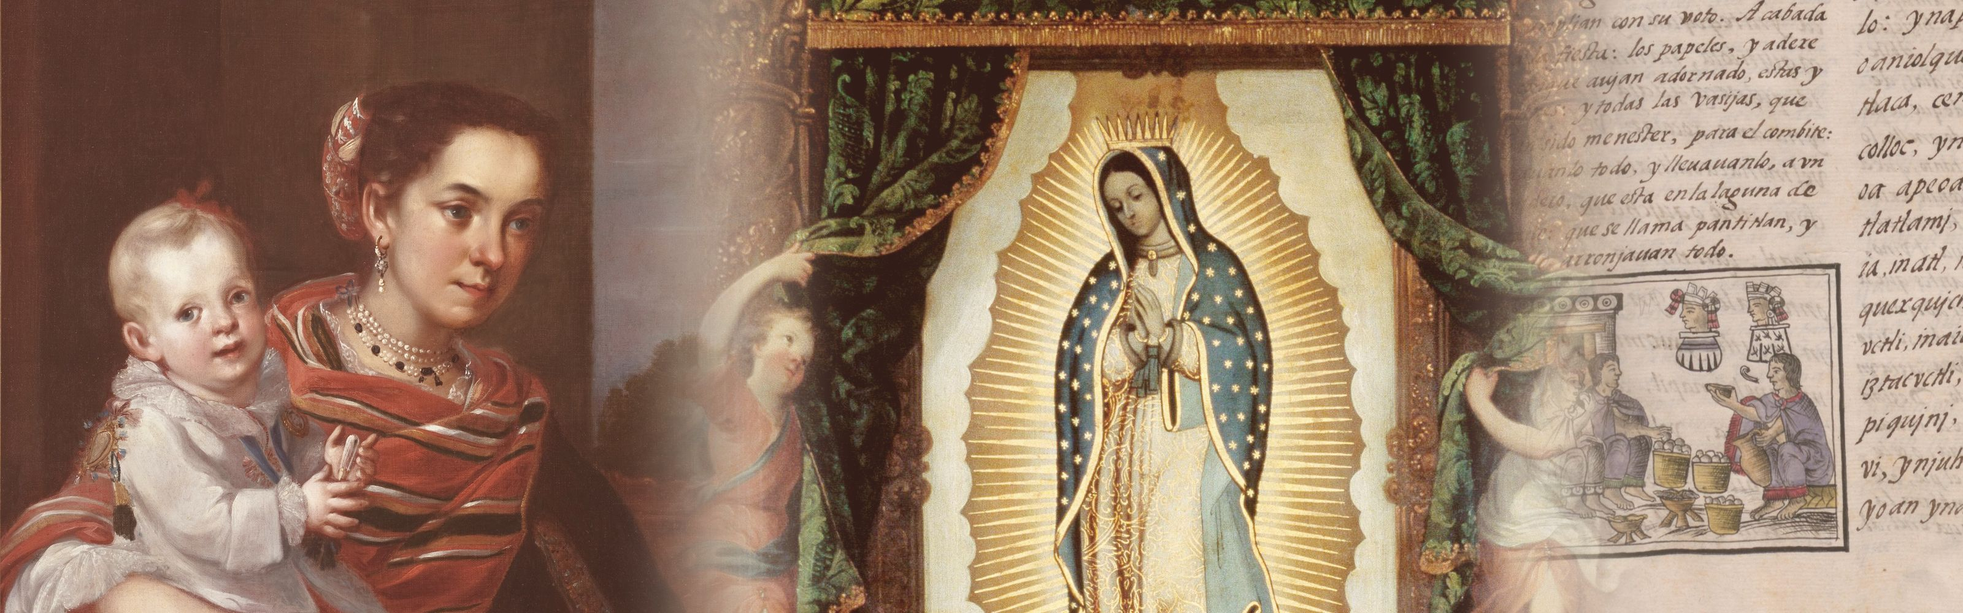
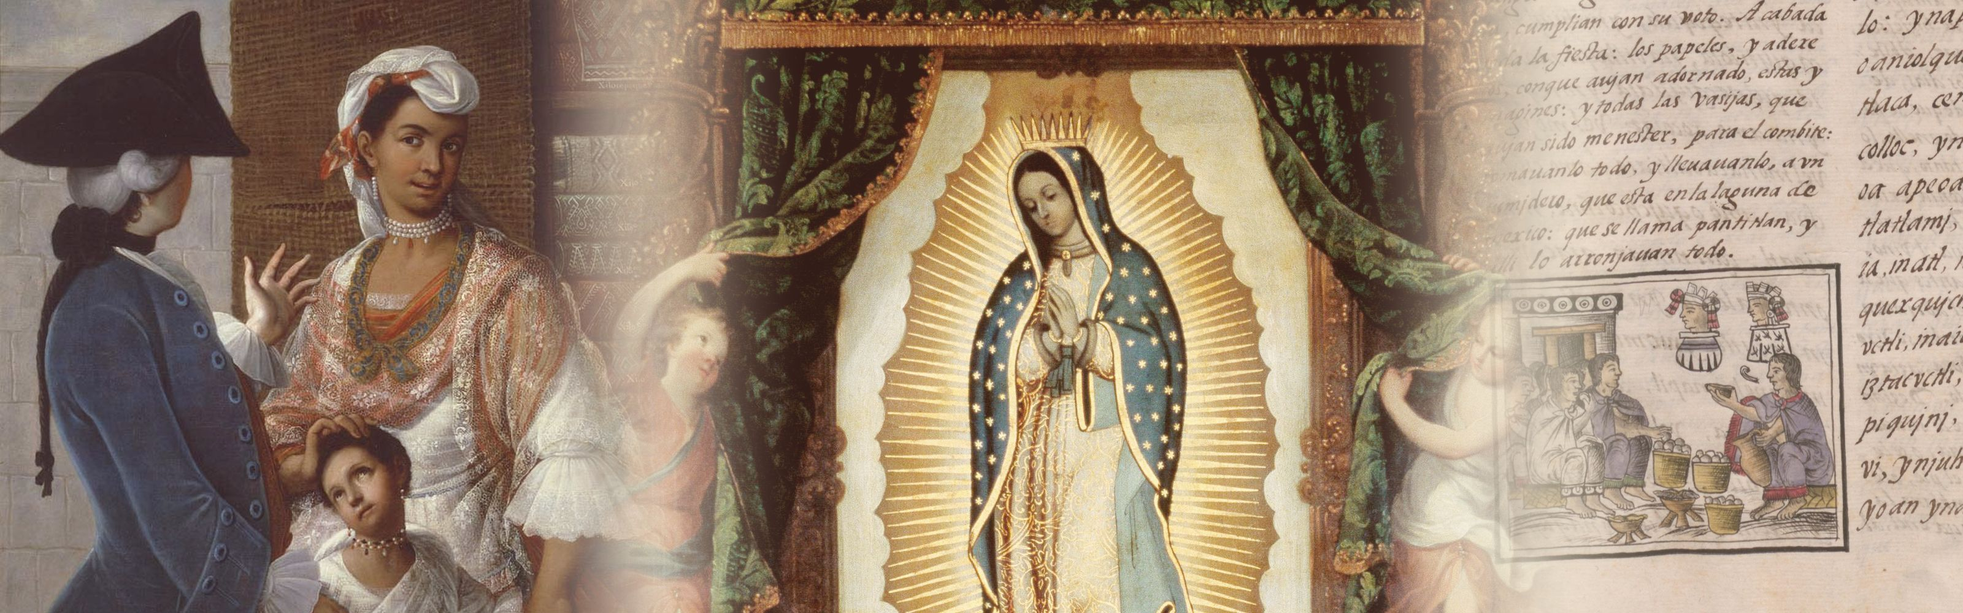
Home: Beltrán's round 3 fixes (#74)
* home: round 3 fixes (title clip, channels band, serif video titles, essay covers)

- Title page: the clip window of each line reaches past the glyphs (the
  italic f, the p's descender) and negative margins give the space back.
- Where to find us: the channel grid leaves About for a light band of its
  own right under the pillars.
- Watch: every video title in the display serif.
- Read: each essay with its Substack cover, saved to public/art/essays.

* pillars: Cabrera's De español e india, mestiza for the Mestizaje third

Beltrán: Morlete's casta painting (a criolla and an albino child) shows no
mestizaje. Cabrera's no. 1 of his 1763 series (a Spanish father, an Indian
mother and their mestiza daughter) replaces it in the fresco and the panel;
the Guadalupe layer starts a little earlier so the seam melts without a pale
gap. Credits, SOURCES and AGENTS updated; Arellano's Mujer chichimeca is
logged as wanted, pending the Museo de América's permission.

---------

diff --git a/site/app/globals.css b/site/app/globals.css
@@ -228,10 +228,19 @@ section { padding: clamp(52px, 7vw, 104px) var(--edge); position: relative; }
   margin-bottom: clamp(18px, 3.4vh, 40px);
 }
 .title__name { margin: 0; font-weight: 600; color: var(--burgundy); line-height: 0.86; letter-spacing: -0.025em; font-size: clamp(54px, 12.2vw, 236px); max-width: none; }
-.title__line { display: inline-block; overflow: clip; padding: 0.04em 0.03em 0.1em; margin: -0.04em 0 -0.1em; vertical-align: bottom; }
+/* each line is a window the words rise through (overflow: clip). The window
+   reaches well past the line box on every side (the italic f leans out at the
+   top right, the p of Hispano hangs below), and negative margins of the same
+   size give the space back (less 0.03em a side, the air between the words),
+   so the clip never cuts a glyph and the lines sit where they always did. */
+.title__line {
+  --pt: 0.26em; --px: 0.16em; --pb: 0.36em;
+  display: inline-block; overflow: clip; vertical-align: bottom;
+  padding: var(--pt) var(--px) var(--pb); margin: calc(-1 * var(--pt)) calc(0.03em - var(--px)) calc(-1 * var(--pb));
+}
 .title__line > span { display: inline-block; }
 .title__line--small {
-  display: block; width: fit-content; margin-inline: auto; margin-bottom: 0.06em;
+  display: block; width: fit-content; margin-inline: auto; margin-bottom: calc(0.16em - var(--pb));
   font-size: 0.24em; font-weight: 500; font-style: italic; letter-spacing: 0.01em; color: var(--ink);
 }
 .title__say { margin: clamp(18px, 3.4vh, 38px) auto 0; font-family: var(--display); font-size: clamp(18px, 1.75vw, 28px); line-height: 1.3; max-width: 36ch; }
@@ -257,7 +266,8 @@ section { padding: clamp(52px, 7vw, 104px) var(--edge); position: relative; }
   .title__run { animation: run 38s linear infinite; }
 }
 @keyframes wings { from { clip-path: inset(0 47% 0 47%); } to { clip-path: inset(0 0 0 0); } }
-@keyframes line-up { from { transform: translateY(105%); } to { transform: none; } }
+/* from below the window's bottom edge, which sits var(--pb) under the line */
+@keyframes line-up { from { transform: translateY(calc(100% + 0.7em)); } to { transform: none; } }
 @keyframes run { to { transform: translateX(-100%); } }
 
 /* ==========================================================================
@@ -738,7 +748,7 @@ main .eyebrow { color: var(--leather); }
 .vid:hover .vid__thumb, .short:hover .short__thumb { box-shadow: var(--lift-2); }
 .watch__grid { list-style: none; margin: 0; padding: 0; display: grid; gap: clamp(16px, 1.8vw, 26px); grid-template-columns: repeat(3, minmax(0, 1fr)); }
 .watch__grid .is-lead { grid-column: span 2; grid-row: span 2; }
-.watch__grid .is-lead h4 { font-family: var(--display); font-size: clamp(21px, 2vw, 30px); font-weight: 600; line-height: 1.15; }
+.watch__grid .is-lead h4 { font-size: clamp(21px, 2vw, 30px); line-height: 1.15; }
 .vid, .short { text-decoration: none; display: flex; flex-direction: column; gap: 10px; }
 .vid__thumb, .short__thumb { position: relative; overflow: hidden; background: var(--paper-deep); border: 1px solid var(--grid); }
 .vid__thumb { aspect-ratio: 16 / 9; }
@@ -753,8 +763,10 @@ main .eyebrow { color: var(--leather); }
 .vid__play::after { content: ""; position: absolute; left: 17px; top: 14px; border-style: solid; border-width: 8px 0 8px 13px; border-color: transparent transparent transparent var(--paper); }
 .vid:hover .vid__play { background: var(--burgundy-dark); }
 .vid__views { position: absolute; right: 7px; bottom: 7px; padding: 2px 6px; background: color-mix(in srgb, var(--ink) 86%, transparent); color: var(--paper); font-family: var(--mono); font-size: 10px; }
-.vid h4, .short h4 { font-family: var(--body); font-size: 15px; font-weight: 500; line-height: 1.35; }
-.short h4 { font-size: 14px; }
+/* every video title in the display serif, as every other title on the page
+   (round 3: the lead was serif and the rest sans, and it showed) */
+.vid h4, .short h4 { font-family: var(--display); font-size: 18px; font-weight: 600; line-height: 1.2; text-wrap: pretty; }
+.short h4 { font-size: 16.5px; }
 .vid:hover h4, .short:hover h4 { text-decoration: underline; }
 .watch__note { margin: 14px 0 0; color: var(--ink-muted); }
 
@@ -776,12 +788,23 @@ main .eyebrow { color: var(--leather); }
 
 .read { border-bottom: var(--rule); }
 
-.read__list { display: grid; gap: 1px; background: var(--grid); border-block: var(--rule); }
-.essay { background: var(--paper); padding: clamp(18px, 2vw, 26px); display: grid; gap: 6px 26px; grid-template-columns: 112px minmax(0, 1fr); text-decoration: none; transition: background 0.15s; }
+/* each essay with its Substack cover, two to a row on wide screens */
+.read__list { display: grid; grid-template-columns: repeat(2, minmax(0, 1fr)); gap: 1px; background: var(--grid); border-block: var(--rule); }
+.essay {
+  background: var(--paper); padding: clamp(16px, 1.8vw, 26px); display: grid; gap: 0 clamp(16px, 1.8vw, 26px);
+  grid-template-columns: clamp(92px, 8.6vw, 132px) minmax(0, 1fr); align-items: start; text-decoration: none; transition: background 0.15s;
+}
+.essay:last-child:nth-child(odd) { grid-column: 1 / -1; }
 .essay:hover { background: var(--paper-deep); }
-.essay__date { font-family: var(--mono); font-size: 11.5px; color: var(--ink-muted); padding-top: 4px; }
+.essay__cover { position: relative; aspect-ratio: 4 / 5; overflow: hidden; background: var(--paper-deep); border: 1px solid var(--grid); box-shadow: var(--lift-1); }
+.essay__cover img { object-fit: cover; transition: transform 0.5s cubic-bezier(0.22, 0.61, 0.36, 1); }
+.essay:hover .essay__cover { box-shadow: var(--lift-2); }
+.essay:hover .essay__cover img { transform: scale(1.045); }
+.essay__text { display: grid; gap: 8px; align-content: start; }
+.essay__date { font-family: var(--mono); font-size: 11.5px; color: var(--ink-muted); }
 .essay h3 { font-size: clamp(19px, 1.6vw, 24px); }
-.essay__by { font-size: 14px; color: var(--ink-muted); margin: 4px 0 0; }
+.essay:hover h3 { text-decoration: underline; text-decoration-thickness: 1px; text-underline-offset: 4px; }
+.essay__by { font-size: 14px; color: var(--ink-muted); margin: 0; }
 
 /* ==========================================================================
    CHANNEL SEALS — the platforms in the institute's own hand (ChannelIcon.tsx)
@@ -822,6 +845,12 @@ a:hover > .seal .seal__glyph, a:focus-visible > .seal .seal__glyph { fill: var(-
 .chan__count { margin-top: 6px; font-family: var(--mono); font-size: 13px; color: var(--burgundy); }
 .chan__count small { font-size: 10px; color: var(--ink-muted); }
 
+/* where to find us: a light band under the pillars, on the same paper */
+.channels { padding-block: clamp(36px, 4.4vw, 64px); }
+.channels__head { display: flex; flex-wrap: wrap; align-items: baseline; gap: 6px 22px; margin-bottom: clamp(18px, 2vw, 28px); }
+.channels__head .eyebrow { margin: 0; }
+.channels__head h2 { font-size: clamp(26px, 2.6vw, 38px); }
+
 /* ==========================================================================
    ABOUT, COMMUNITY
    ========================================================================== */
@@ -844,7 +873,6 @@ a:hover > .seal .seal__glyph, a:focus-visible > .seal .seal__glyph { fill: var(-
 .community .pending .seal { width: 30px; height: 30px; opacity: 0.75; }
 .community .btn { padding-block: 8px; padding-left: 10px; }
 .community .btn .seal { width: 34px; height: 34px; }
-.about .shelf { margin-top: clamp(36px, 4vw, 56px); }
 .about__grid { display: grid; grid-template-columns: minmax(0, 1.25fr) minmax(0, 1fr); gap: clamp(28px, 5vw, 88px); align-items: stretch; }
 .about__plate { margin: 0; align-self: start; box-shadow: var(--lift-2); background: var(--paper-deep); padding: clamp(8px, 0.8vw, 12px); outline: 1px solid var(--grid); }
 .about__plate img { display: block; width: 100%; height: auto; }
@@ -939,6 +967,7 @@ a:hover > .seal .seal__glyph, a:focus-visible > .seal .seal__glyph { fill: var(-
   .watch__grid { grid-template-columns: repeat(2, minmax(0, 1fr)); }
   .watch__grid .is-lead { grid-row: auto; }
   .chan-grid { grid-template-columns: repeat(3, minmax(0, 1fr)); }
+  .read__list { grid-template-columns: minmax(0, 1fr); }
   .tour { position: static; width: auto; margin: 0 clamp(16px, 3vw, 44px) clamp(16px, 3vw, 44px); }
   .tour__card { min-height: 0; }
   .cartouche { position: static; max-width: none; margin: clamp(16px, 3vw, 44px); }
@@ -960,8 +989,11 @@ a:hover > .seal .seal__glyph, a:focus-visible > .seal .seal__glyph { fill: var(-
 }
 @media (max-width: 760px) {
   /* phones: the name on two lines, as wide as the screen */
-  .title__name { font-size: 23.5vw; }
-  .title__line { display: block; width: fit-content; margin-inline: auto; }
+  /* a centred column: unlike auto margins, flex centring keeps each line's
+     window symmetric even when the word is as wide as the screen */
+  .title__name { font-size: 23.5vw; display: flex; flex-direction: column; align-items: center; }
+  .title__line { display: block; width: fit-content; }
+  .title__line--small { margin-inline: calc(0.03em - var(--px)); }
   .title__line--small { font-size: 0.26em; }
   /* phones: the fresco crops to its middle, the tabs become a list */
   .fresco__band { aspect-ratio: 16 / 9; }
@@ -982,8 +1014,15 @@ a:hover > .seal .seal__glyph, a:focus-visible > .seal .seal__glyph { fill: var(-
   .watch__grid .is-lead { grid-column: auto; grid-row: auto; }
   .rail__nav { display: none; }
   .rail__track { grid-auto-columns: 46%; }
-  .chan-grid { grid-template-columns: repeat(2, minmax(0, 1fr)); }
-  .essay { grid-template-columns: 1fr; }
+  /* phones: the channels stay a light band, three to a row */
+  .chan-grid { grid-template-columns: repeat(3, minmax(0, 1fr)); }
+  .chan { padding: 14px 4px 13px; gap: 2px; }
+  .chan .seal { width: 40px; height: 40px; margin-bottom: 6px; }
+  .chan__name { font-size: 16px; }
+  .chan__handle { font-size: 9px; }
+  .chan__count { margin-top: 3px; font-size: 12px; }
+  .chan__count small { font-size: 9px; }
+  .essay { grid-template-columns: 92px minmax(0, 1fr); }
   .canon-box__grid { grid-template-columns: repeat(2, minmax(0, 1fr)); gap: 18px 14px; }
   .ccard { padding: 12px 12px 11px; gap: 7px; }
   .ccard__title { font-size: 17px; }
@@ -997,7 +1036,6 @@ a:hover > .seal .seal__glyph, a:focus-visible > .seal .seal__glyph { fill: var(-
   .ms summary::after { grid-column: 3; grid-row: 1; }
   .ms__body { padding-left: calc(2em + 24px); }
   .epigraph__mark { top: -0.5em; }
-  .essay__date { padding-top: 0; }
   .nav, .tools .cart { display: none; }
   .menu { display: block; }
   .brand__name { font-size: 13px; }
@@ -1023,5 +1061,5 @@ a:hover > .seal .seal__glyph, a:focus-visible > .seal .seal__glyph { fill: var(-
 
 @media (prefers-reduced-motion: reduce) {
   *, *::before, *::after { transition-duration: 0.01ms !important; }
-  .vid:hover img, .short:hover img { transform: none; }
+  .vid:hover img, .short:hover img, .essay:hover .essay__cover img { transform: none; }
 }

diff --git a/site/lib/i18n.ts b/site/lib/i18n.ts
@@ -89,12 +89,12 @@ const en = {
     hint: 'Open a pillar to see what rests on it.',
     explore: 'Explore this pillar',
     heads: { mestizaje: 'A history of encounters', catolicismo: 'A living inheritance', lengua: 'A shared word' },
-    frescoCredit: 'Juan Patricio Morlete (attr.), Miguel Cabrera and the Florentine Codex, in one band',
+    frescoCredit: 'Two paintings by Miguel Cabrera and the Florentine Codex, in one band',
     open: 'Open',
     close: 'Close',
     pillar: 'Pillar',
     credits: {
-      mestizaje: 'Juan Patricio Morlete Ruiz (attributed), casta painting: from Spaniard and Morisca, Albino, 18th century. LACMA',
+      mestizaje: 'Miguel Cabrera, casta painting: from Spaniard and Indian, Mestiza, 1763. Museo de Historia Mexicana, Monterrey',
       catolicismo: 'Miguel Cabrera, altarpiece of the Virgin of Guadalupe with Saint John the Baptist, Fray Juan de Zumárraga and Juan Diego, 18th century',
       lengua: 'Sahagún and Nahua scholars, the Florentine Codex, 1575–77: Spanish and Nahuatl side by side',
     },
@@ -158,12 +158,15 @@ const en = {
     subscribe: 'Read on Substack',
     subscribers: 'subscribers',
   },
+  channels: {
+    eyebrow: 'Channels',
+    h: 'Where to find us.',
+  },
   about: {
     eyebrow: 'The mission',
     h: 'A tradition that was forgotten, not refuted.',
     p1: 'The Institute for Hispano Studies studies and defends Hispanic civilization: its history, its Catholic inheritance, its mestizaje and its two languages. De Indiis Editions translates and republishes the canon of that argument.',
     p2: 'The claim is not that this tradition was defeated. It is that most of it was never translated, and that an argument you cannot read is an argument you cannot answer.',
-    channels: 'Where the institute publishes',
     plate: 'Cristóbal de Villalpando, View of the Plaza Mayor of Mexico City, 1695. Corsham Court',
     followers: 'followers',
     subscribers: 'subscribers',
@@ -279,12 +282,12 @@ const es: Dict = {
     hint: 'Abre un pilar para ver qué se apoya en él.',
     explore: 'Explorar este pilar',
     heads: { mestizaje: 'Una historia de encuentros', catolicismo: 'Una herencia viva', lengua: 'Una palabra compartida' },
-    frescoCredit: 'Juan Patricio Morlete (atrib.), Miguel Cabrera y el Códice Florentino, en una sola banda',
+    frescoCredit: 'Dos cuadros de Miguel Cabrera y el Códice Florentino, en una sola banda',
     open: 'Abrir',
     close: 'Cerrar',
     pillar: 'Pilar',
     credits: {
-      mestizaje: 'Juan Patricio Morlete Ruiz (atribuido), cuadro de castas: de español y morisca, albino, siglo XVIII. LACMA',
+      mestizaje: 'Miguel Cabrera, cuadro de castas: de español e india, mestiza, 1763. Museo de Historia Mexicana, Monterrey',
       catolicismo: 'Miguel Cabrera, retablo de la Virgen de Guadalupe con san Juan Bautista, fray Juan de Zumárraga y Juan Diego, siglo XVIII',
       lengua: 'Sahagún y los sabios nahuas, Códice Florentino, 1575–77: español y náhuatl, uno junto al otro',
     },
@@ -348,12 +351,15 @@ const es: Dict = {
     subscribe: 'Leer en Substack',
     subscribers: 'suscriptores',
   },
+  channels: {
+    eyebrow: 'Canales',
+    h: 'Dónde encontrarnos.',
+  },
   about: {
     eyebrow: 'La misión',
     h: 'Una tradición olvidada, no refutada.',
     p1: 'El Institute for Hispano Studies estudia y defiende la civilización hispánica: su historia, su herencia católica, su mestizaje y sus dos lenguas. De Indiis Editions traduce y reedita el canon de esa discusión.',
     p2: 'La tesis no es que esta tradición fuera derrotada. Es que casi nunca se tradujo, y un argumento que no puedes leer es un argumento que no puedes responder.',
-    channels: 'Dónde publica el instituto',
     plate: 'Cristóbal de Villalpando, Vista de la Plaza Mayor de la Ciudad de México, 1695. Corsham Court',
     followers: 'seguidores',
     subscribers: 'suscriptores',

diff --git a/site/app/[lang]/page.tsx b/site/app/[lang]/page.tsx
@@ -50,6 +50,15 @@ export default async function Home({ params }: { params: Promise<{ lang: string 
         {/* I · three pillars holding up the Institute */}
         <Pillars lang={lang} counts={{ milestones: COUNTS.milestones, authors: COUNTS.authors }} />
 
+        {/* where to find us: every channel, a light band right under the pillars */}
+        <section className="channels" id="channels" aria-labelledby="channels-h">
+          <div className="channels__head">
+            <p className="eyebrow">{d.channels.eyebrow}</p>
+            <h2 id="channels-h">{d.channels.h}</h2>
+          </div>
+          <ChannelGrid lang={lang} />
+        </section>
+
         {/* II · III · the Atlas and the canon, as two plates that open their pages */}
         <Doors lang={lang} />
 
@@ -122,11 +131,14 @@ export default async function Home({ params }: { params: Promise<{ lang: string 
           <div className="read__list">
             {ESSAYS.map((e) => (
               <a key={e.slug} className="essay" href={e.url} target="_blank" rel="noopener noreferrer">
-                <span className="essay__date">{fmtDate(e.date, lang)}</span>
-                <span>
+                <span className="essay__cover">
+                  <Image src={e.cover} alt="" fill sizes="(max-width: 760px) 92px, 132px" />
+                </span>
+                <div className="essay__text">
+                  <span className="essay__date">{fmtDate(e.date, lang)}</span>
                   <h3>{e.title}</h3>
                   <p className="essay__by">{e.author}{e.translator ? ` · ${d.read.trans} ${e.translator}` : ''}</p>
-                </span>
+                </div>
               </a>
             ))}
           </div>
@@ -143,12 +155,12 @@ export default async function Home({ params }: { params: Promise<{ lang: string 
             <div className="about__text">
               <p className="eyebrow">{d.about.eyebrow}</p>
               <h2 id="about-h">{d.about.h}</h2>
+              {/* the short mission summary from Beltrán's own manifesto goes here,
+                  with a link to the full text on /[lang]/mission (issue #66; text pending) */}
               <p className="lede">{d.about.p1}</p>
               <p>{d.about.p2}</p>
             </div>
           </div>
-          <h3 className="shelf">{d.about.channels}</h3>
-          <ChannelGrid lang={lang} />
         </section>
 
         {/* community */}

diff --git a/site/lib/content.ts b/site/lib/content.ts
@@ -79,7 +79,9 @@ export const ESSAYS = [
   { title: 'Aryan Indigenismo and Manifest Destiny', author: 'Beltrán Arellanes', date: '2025-04-06', slug: 'aryan-indigenismo-and-manifest-destiny' },
   { title: 'The Black Legend: Threat to Hispanic Civilization (Part 1)', author: 'Alicia Melchor Herrera', date: '2025-04-12', slug: 'the-black-legend-threat-to-hispanic' },
 ]
-  .map((e) => ({ ...e, url: SUB + e.slug }))
+  // cover: the post's own cover image (its og:image), saved from Substack on 2026-10-29
+  // into public/art/essays/<slug>.jpg so the page does not hotlink Substack's CDN
+  .map((e) => ({ ...e, url: SUB + e.slug, cover: `/art/essays/${e.slug}.jpg` }))
   .sort((a, b) => b.date.localeCompare(a.date));
 
 /** YouTube's own thumbnails: the portrait frame for Shorts, the 16:9 one for videos. */

diff --git a/site/components/pillars/Fresco.tsx b/site/components/pillars/Fresco.tsx
@@ -13,7 +13,7 @@ import { PILLAR_LINKS, type PillarKey } from '@/lib/content';
 const KEYS: PillarKey[] = ['mestizaje', 'catolicismo', 'lengua'];
 const ROMAN = ['I', 'II', 'III'];
 const DETAIL: Record<PillarKey, { w: number; h: number }> = {
-  mestizaje: { w: 1272, h: 1400 },
+  mestizaje: { w: 777, h: 995 },
   catolicismo: { w: 1400, h: 1400 },
   lengua: { w: 1132, h: 1065 },
 };

diff --git a/tools/build-fresco.py b/tools/build-fresco.py
@@ -3,7 +3,8 @@
     ~/.venvs/film/bin/python -I tools/build-fresco.py SRC_DIR
 
 SRC_DIR holds the three originals (listed with their sources in assets/art/SOURCES.md):
-  morlete-casta-albino.jpg    Mestizaje   (Morlete, casta painting, LACMA)
+  cabrera-de-espanol-e-india-mestiza.jpg
+                              Mestizaje   (Miguel Cabrera, De español e india, mestiza, 1763)
   cabrera-guadalupe.jpg       Catolicismo (Miguel Cabrera, altarpiece of the Virgin of Guadalupe)
   florentine-codex-80.jpg     Lengua      (Florentine Codex, folio 80, Spanish and Nahuatl)
 
@@ -24,12 +25,14 @@ W, H = 3200, 1000
 
 # (file, crop box as fractions, x where it starts on the band, seam widths left/right)
 LAYERS = {
-    "mestizaje": ("morlete-casta-albino.jpg", (0.0, 0.08, 1.0, 0.66), 0, (0, 380)),
+    # the Spanish father on the left edge, the mother and their daughter in the left third;
+    # the source is small (777 px wide on Commons), so the band is soft there, not blocky
+    "mestizaje": ("cabrera-de-espanol-e-india-mestiza.jpg", (0.0, 0.115, 1.0, 0.79), 0, (0, 340)),
     "lengua": ("florentine-codex-80.jpg", (0.0, 0.50, 1.0, 0.985), 2330, (400, 0)),
-    "catolicismo": ("cabrera-guadalupe.jpg", (0.02, 0.035, 0.98, 0.47), 1040, (360, 400)),
+    "catolicismo": ("cabrera-guadalupe.jpg", (0.02, 0.035, 0.98, 0.47), 900, (420, 400)),
 }
 DETAIL = {  # crops for the open panel (portrait 4:5)
-    "mestizaje": (0.0, 0.05, 0.86, 0.80),
+    "mestizaje": (0.0, 0.0, 1.0, 1.0),  # the whole painting, with its title
     "catolicismo": (0.12, 0.0, 0.88, 0.58),
     "lengua": (0.0, 0.40, 1.0, 1.0),
 }

diff --git a/assets/art/SOURCES.md b/assets/art/SOURCES.md
@@ -158,8 +158,10 @@ In the reel we use only the public-domain and CC0 files above. The Cartagena nav
 | --- | --- |
 | `epigraph-valley.jpg` | `assets/art/ai/valley-of-mexico-2026-10-25.jpg` (AI-generated, see below): the false signature painted out, printed a little warmer toward the site's paper, resized to 2400 px. It fills the epigraph section behind Lewis Hanke's sentence, credited on the page as a generated image |
 | `atlas-plate.jpg` | A still of our own Atlas map (`site/components/MapTour.tsx`, Natural Earth geometry, public domain), captured from the page |
-| `pillars/fresco.jpg` | The pillars' band, built by `tools/build-fresco.py` from three public-domain paintings laid side by side with soft seams and one warm grade: `paint-morlete-casta-albino.jpg` above (PD-Art); Miguel Cabrera, *Retablo de la Virgen de Guadalupe con san Juan Bautista, fray Juan de Zumárraga y Juan Diego*, 18th century, [Commons](https://commons.wikimedia.org/wiki/File:Miguel_Cabrera_-_Altarpiece_of_the_Virgin_of_Guadalupe_with_Saint_John_the_Baptist,_Fray_Juan_de_Zum%C3%A1rraga_and_Juan_Diego_-_Google_Art_Project.jpg) (Google Art Project, public domain); and the Florentine Codex folio 80, [Commons](https://commons.wikimedia.org/wiki/File:The_Florentine_Codex_(folio_80).jpg) (public domain, the full 1132 px file). Credited on the page under the band |
-| `pillars/mestizaje-detail.jpg`, `pillars/catolicismo-detail.jpg`, `pillars/lengua-detail.jpg` | Crops of the same three paintings, same grade, shown in the panel each pillar opens |
+| `pillars/fresco.jpg` | The pillars' band, built by `tools/build-fresco.py` from three public-domain paintings laid side by side with soft seams and one warm grade: Miguel Cabrera, *1. De español e india, mestiza*, 1763, oil on canvas, Museo de Historia Mexicana, Monterrey (per [Wikidata Q111605580](https://www.wikidata.org/wiki/Q111605580)), [Commons](https://commons.wikimedia.org/wiki/File:De_espa%C3%B1ol_e_india,_mestiza.jpg) (PD-Art, PD-old-100; 777 × 995 px, the largest copy on Commons), since 2026-10-29 in place of Morlete's casta painting; Miguel Cabrera, *Retablo de la Virgen de Guadalupe con san Juan Bautista, fray Juan de Zumárraga y Juan Diego*, 18th century, [Commons](https://commons.wikimedia.org/wiki/File:Miguel_Cabrera_-_Altarpiece_of_the_Virgin_of_Guadalupe_with_Saint_John_the_Baptist,_Fray_Juan_de_Zum%C3%A1rraga_and_Juan_Diego_-_Google_Art_Project.jpg) (Google Art Project, public domain); and the Florentine Codex folio 80, [Commons](https://commons.wikimedia.org/wiki/File:The_Florentine_Codex_(folio_80).jpg) (public domain, the full 1132 px file). Credited on the page under the band |
+| `pillars/mestizaje-detail.jpg`, `pillars/catolicismo-detail.jpg`, `pillars/lengua-detail.jpg` | Crops of the same three paintings, same grade, shown in the panel each pillar opens (Cabrera's *mestiza* whole, at its 777 px) |
+
+Wanted for the Mestizaje pillar, pending the museum's permission: Manuel de Arellano, *Mujer chichimeca* (1711), Museo de América, Madrid, inv. 2000/05/02 (Beltrán's choice). Its only photograph is the Ministry of Culture's, licensed for non-commercial use, so it is not used until the museum says yes.
 | `villalpando-plaza-mayor-1695.jpg` | `paint-villalpando-plaza-mayor-1695.jpg` above (public domain), resized; in the About section |
 
 `portico.jpg` left the site on 2026-10-25 (the pillars are now HTML and CSS); it stays in the film (`film/reel/assets/img/portico.jpg`). `epigraph-agnus-dei.jpg` (Zurbarán's lamb) left the site on 2026-10-26: the valley replaced it.
@@ -171,3 +173,18 @@ In the reel we use only the public-domain and CC0 files above. The Cartagena nav
 | `footer-name.jpg` | `assets/art/ai/footer-hispano-studies-2026-10-26.png` (AI-generated, see above), the cream strip on its right cut off (1826 × 809). The footer's glass shows the same picture mirrored and blurred |
 
 The letters cut from period pictures (`site/public/art/letters/`) were on the site only on 2026-10-26: Carlos preferred his own picture and its typeface.
+
+## Essay covers in Read (`site/public/art/essays/`)
+
+Beltrán's Substack post covers, used with the publication (the Institute for Hispano Studies on Substack, hispanicamerican.substack.com). Each is the post's `og:image`, saved on 2026-10-29 from the original upload on `substack-post-media.s3.amazonaws.com`, flattened on white and resized to at most 720 px; the page crops them to 4:5. The file is named after the post's slug. The pictures inside them are the publication's choice; their own sources are not traced here.
+
+| File | Post | Original upload |
+| --- | --- | --- |
+| `the-catholic-hispanic-position-on.jpg` | [The Catholic-Hispanic Position on Racism](https://hispanicamerican.substack.com/p/the-catholic-hispanic-position-on) | `532fc229-b66a-4672-a034-bb39bd28fbef_864x1152.jpeg` |
+| `the-vikings-did-not-discover-america.jpg` | [The Vikings Did Not Discover America](https://hispanicamerican.substack.com/p/the-vikings-did-not-discover-america) | `2c61aeaf-eef5-4530-ba9c-bea0dce772f9_981x939.jpeg` |
+| `oireis-hablar-de-mi-a-tribute-to.jpg` | [Oiréis hablar de mí: A Tribute to José Vasconcelos](https://hispanicamerican.substack.com/p/oireis-hablar-de-mi-a-tribute-to) | `e7c85e37-066c-4360-8284-56417fef5042_943x1374.jpeg` |
+| `transitional-political-society-neither.jpg` | [Transitional Political Society, Neither Feudal nor Capitalist](https://hispanicamerican.substack.com/p/transitional-political-society-neither) | `133a6424-9786-450c-a77a-8f63d598a1d2_700x375.jpeg` |
+| `spain-and-america.jpg` | [Spain and America](https://hispanicamerican.substack.com/p/spain-and-america) | `f003f3c5-4721-473a-aded-cf3d980ab10f_1140x1600.jpeg` |
+| `on-bullfighting.jpg` | [On Bullfighting](https://hispanicamerican.substack.com/p/on-bullfighting) | `4f165f59-4f51-4fdf-be07-6457c14b61fa_505x727.png` |
+| `aryan-indigenismo-and-manifest-destiny.jpg` | [Aryan Indigenismo and Manifest Destiny](https://hispanicamerican.substack.com/p/aryan-indigenismo-and-manifest-destiny) | `00c3ffe3-883b-48a5-b226-45d62c358347_522x720.jpeg` |
+| `the-black-legend-threat-to-hispanic.jpg` | [The Black Legend: Threat to Hispanic Civilization (Part 1)](https://hispanicamerican.substack.com/p/the-black-legend-threat-to-hispanic) | `452db558-4eeb-412c-b31f-0d25f03a51a2_568x640.jpeg` |

diff --git a/AGENTS.md b/AGENTS.md
@@ -79,7 +79,7 @@ Labels: `area:site`, `area:data`, `area:brand`, `area:shared`, `area:research`, 
 - **Images**: only public-domain or properly licensed sources, logged in `assets/art/SOURCES.md` before they ship. Beltrán's Drive folder is a moodboard only.
 - **Motion**: respect `prefers-reduced-motion` everywhere; every animation has a still state; reveals must fail open (content can never stay hidden because a script or a feature is missing).
 - **Pages**: the home, `/[lang]/atlas` (the map, its tour, the sixty milestones) and `/[lang]/canon` (the fifty works). Beltrán found the home too busy with the map and the canon live on it (2026-10-24), so the home shows them as two plates that open their pages.
-- **Homepage order** (since 2026-10-25, issue #64): title page (the eagle and the name, nothing else) → the reel → the epigraph (Lewis Hanke, inked word by word as it scrolls) → three pillars → the two plates, Atlas and canon → books → watch → read → about → community (with the pamphlet signup) → merch → footer.
+- **Homepage order** (since 2026-10-25, issue #64): title page (the eagle and the name, nothing else) → the reel → the epigraph (Lewis Hanke, inked word by word as it scrolls) → three pillars → where to find us (the channel grid, a light band; moved up from About in round 3, issue #66) → the two plates, Atlas and canon → books → watch → read → about → community (with the pamphlet signup) → merch → footer.
 - **The title page** (since 2026-10-26): two layers. Behind, seven shapes in tints of burgundy and leather drift, turn and stretch on the paper (cycles of 10 to 17 s); in front, a frosted glass over the whole title page (`.title__page::before`: a light backdrop blur, a cream wash, a lit top edge) carries the eagle and the name, so the shapes come through as soft moving colour; cream stays on top. No frame or inset pane (tried and rejected 2026-10-26). CSS only, still with reduced motion. It answers the footer's glass.
 - **The epigraph** (since 2026-10-26): Hanke's sentence over a wide view of the Valley of Mexico that fills the section (`site/public/art/epigraph-valley.jpg`, AI-generated in Velasco's manner, credited as a generated image; its false signature was painted out). A paper veil from the left (from the top on phones) keeps the words readable.
 - **The footer** (since 2026-10-26): a blind. The page ends with a frosted glass laid out as a grid of cells parted by hairlines (the eagle; Explore, Channels, Community; the motto and blurb above the sources), and a bottom line with © Hispano Studies LLC, the version and "Made by algoreto" with its logo, linking to https://algoreto.com; under it lies Carlos's picture of HISPANO STUDIES with a painting in every letter (`site/public/art/footer-name.jpg`, its cream strip cut off), fixed to the bottom of the window and seen blurred through the glass. Scrolling on lifts the glass and shows the name, heavily: past the bottom of the glass the wheel or finger lifts it less and less, damped. Letting go, it falls back by its weight, a quick smooth scroll (`site/components/FooterBlind.tsx`; never while a finger is down; a touchpad's inertia never holds it up). The footer's ground (`--wine`) is the picture's own burgundy.
@@ -94,7 +94,7 @@ Labels: `area:site`, `area:data`, `area:brand`, `area:shared`, `area:research`, 
 
 ## The pillars (`site/components/Pillars.tsx`, `site/components/pillars/Fresco.tsx`)
 
-- The idea: **everything the Institute does rests on three pillars**, mestizaje, catolicismo and lengua. Since 2026-10-26 (after Carlos's mock-ups) it is **one fresco** across the full width: three public-domain paintings melted into one band (`site/public/art/pillars/fresco.jpg`, built by `tools/build-fresco.py`: Morlete's casta painting, Cabrera's Guadalupe altarpiece, the Florentine Codex folio 80 in Spanish and Nahuatl). Under it the three pillars are tabs; pointing at one lights its third of the fresco, opening one unfolds a panel under the tabs (the painting's detail on the left; numeral, a heading, what it covers and the rows of what rests on it on the right: the book series, the Atlas for lengua, and `PILLAR_LINKS` in `site/lib/content.ts`). Esc or "Close" folds it.
+- The idea: **everything the Institute does rests on three pillars**, mestizaje, catolicismo and lengua. Since 2026-10-26 (after Carlos's mock-ups) it is **one fresco** across the full width: three public-domain paintings melted into one band (`site/public/art/pillars/fresco.jpg`, built by `tools/build-fresco.py`: Miguel Cabrera's casta painting *De español e india, mestiza* (1763; since 2026-10-29, replacing Morlete's, which Beltrán said showed no mestizaje; Arellano's *Mujer chichimeca* is wanted instead if the Museo de América allows it), Cabrera's Guadalupe altarpiece, the Florentine Codex folio 80 in Spanish and Nahuatl). Under it the three pillars are tabs; pointing at one lights its third of the fresco, opening one unfolds a panel under the tabs (the painting's detail on the left; numeral, a heading, what it covers and the rows of what rests on it on the right: the book series, the Atlas for lengua, and `PILLAR_LINKS` in `site/lib/content.ts`). Esc or "Close" folds it.
 - On phones the fresco crops to its middle and the tabs become a list.
 - Rejected, so nobody re-proposes them: photographed columns engraved in WebGL; 3D gilded columns from Blender (pipeline kept in `tools/blender/`); gold of any kind; the engraved portico with the words laid over it and a list beside it (2026-10-21 to 25); a temple in HTML and CSS with a painting in each shaft, on burgundy and then drawn in burgundy on paper (2026-10-25 to 26: "no me termina de convencer"). Generated "viceregal" paintings for the fresco: it uses real ones.
 
